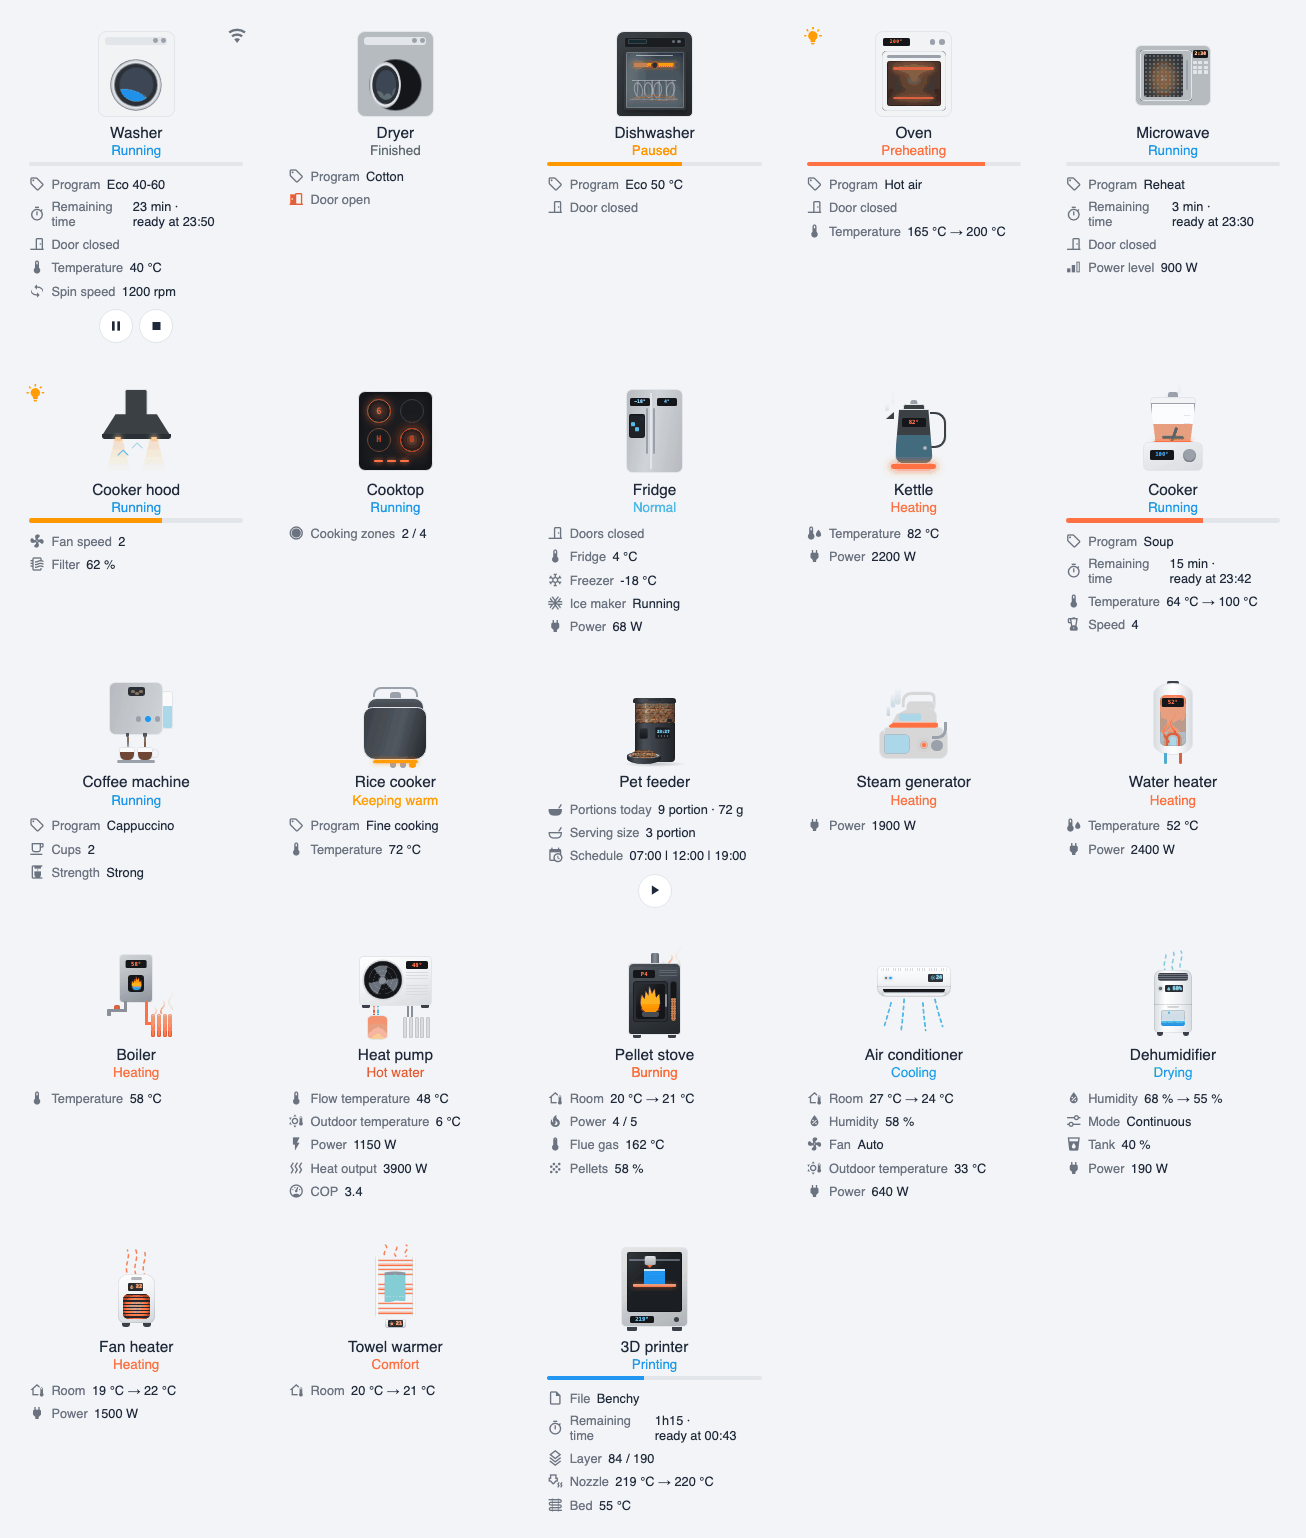
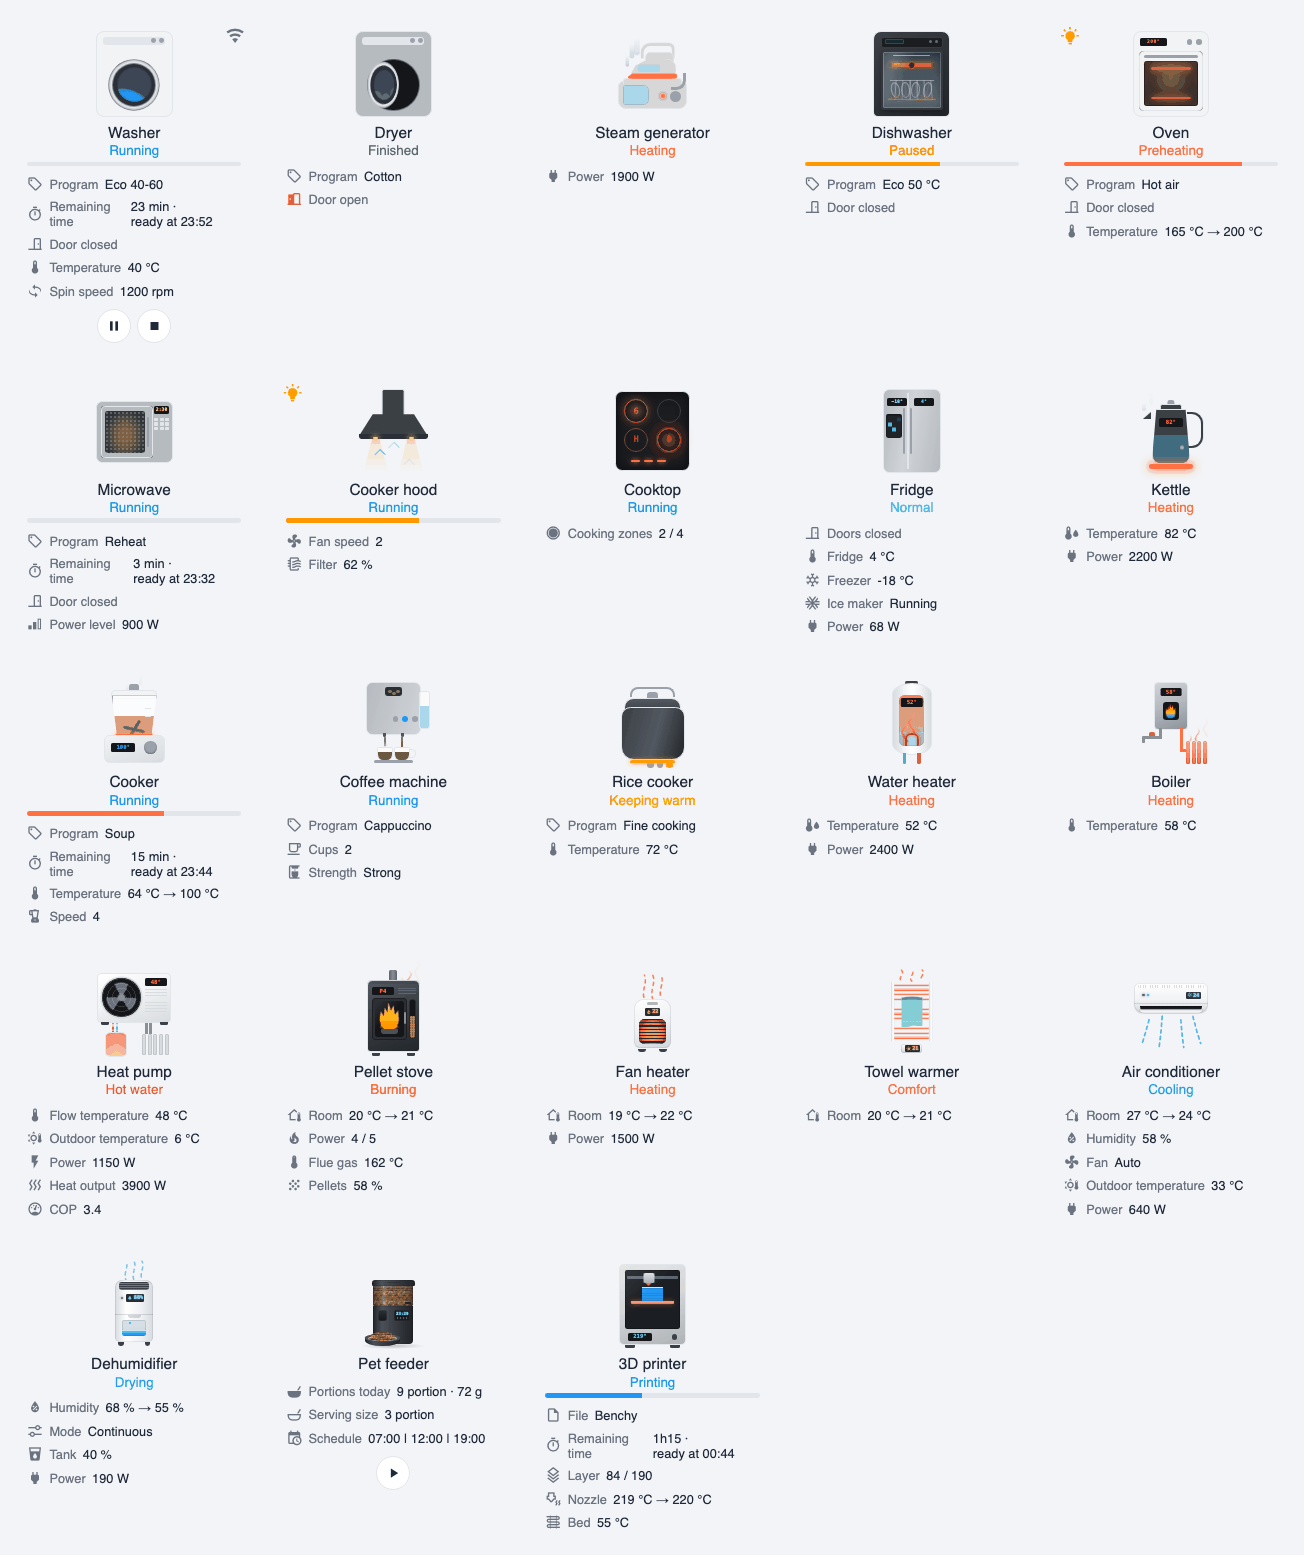
docs: la galerie regroupe les appareils par grand type
Le linge, la cuisine, le chauffage et la climatisation, puis le reste :
les croquettes et l'imprimante 3D.

diff --git a/docs/demo.html b/docs/demo.html
@@ -499,12 +499,13 @@ const steamGenerator = () => card({
   st("sensor.steam_plug_power", 1900, { unit_of_measurement: "W" }),
 ]);
 
-const ALL = { washer, dryer, dishwasher, oven, microwave, hood, cooktop, fridge,
-              kettle, cooker, coffee, rice_cooker: riceCooker, pet_feeder: petFeeder,
-              steam_generator: steamGenerator, water_heater: waterHeater, boiler,
-              heat_pump: heatPump, pellet_stove: pelletStove, air_conditioner: airConditioner,
-              dehumidifier, space_heater: spaceHeater, towel_warmer: towelWarmer,
-              printer_3d: printer3d };
+// Grouped by kind: the laundry, the kitchen, heating and climate, then the
+// rest.
+const ALL = { washer, dryer, steam_generator: steamGenerator,
+              dishwasher, oven, microwave, hood, cooktop, fridge, kettle, cooker, coffee, rice_cooker: riceCooker,
+              water_heater: waterHeater, boiler, heat_pump: heatPump, pellet_stove: pelletStove,
+              space_heater: spaceHeater, towel_warmer: towelWarmer, air_conditioner: airConditioner, dehumidifier,
+              pet_feeder: petFeeder, printer_3d: printer3d };
 const only = (params.get("only") || "").split(",").map((k) => k.trim()).filter(Boolean);
 if (only.length) {
   document.documentElement.style.setProperty("--cols", only.length);
